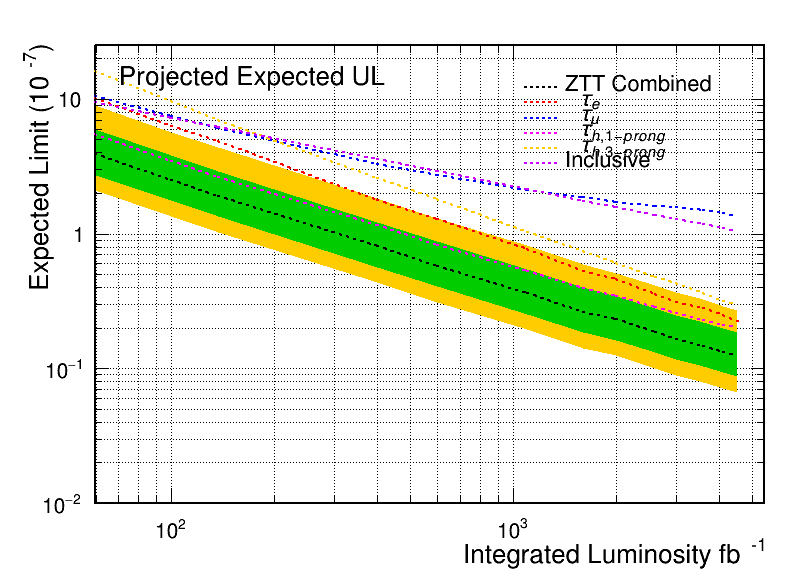
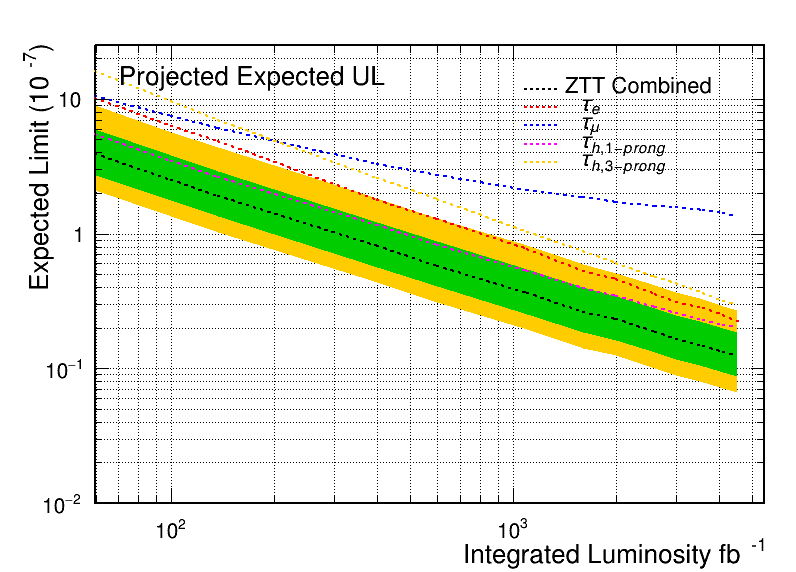
removed inclusive results from ZTT plot

Changed region(s): [[0.6633, 0.1189, 0.9045, 0.2972]]

diff --git a/makeYield/readLimits.py b/makeYield/readLimits.py
@@ -182,8 +182,10 @@ def plotUpperLimits(lumi_W,lumi_HF,lumi_ZTT,analyzed_lumi_W,analyzed_lumi_HF,ana
                             subcat[cat] = ['combined']
                             subcat_label[cat] = ['ZTT']
                     else:
-                            subcat[cat] = ['combined','taue','taumu','tauhA','tauhB','all']
-                            subcat_label[cat] = ["ZTT Combined", r"$\tau_{e}$", r"$\tau_{\mu}$", r"$\tau_{h,1-prong}$", r"$\tau_{h,3-prong}$", "Inclusive"]
+                            #subcat[cat] = ['combined','taue','taumu','tauhA','tauhB','all']
+                            #subcat_label[cat] = ["ZTT Combined", r"$\tau_{e}$", r"$\tau_{\mu}$", r"$\tau_{h,1-prong}$", r"$\tau_{h,3-prong}$", "Inclusive"]
+                            subcat[cat] = ['combined','taue','taumu','tauhA','tauhB']
+                            subcat_label[cat] = ["ZTT Combined", r"$\tau_{e}$", r"$\tau_{\mu}$", r"$\tau_{h,1-prong}$", r"$\tau_{h,3-prong}$"]
                             
                     #subcat = ['taue','taumu','tauhA','tauhB','all','combined']
                     #subcat_label = [r"$\tau_{e}$", r"$\tau_{\mu}$", r"$\tau_{h,1-prong}$", r"$\tau_{h,3-prong}$", "Inclusive", "Combined"]
@@ -719,8 +721,8 @@ def main():
 
         
 #    categories = ['ZTT','W']
-    categories = ['W']
-#    categories = ['ZTT']
+#    categories = ['W']
+    categories = ['ZTT']
 #    categories = ['ZTT','HF','W']
     
     Whether_Hybrid=False
